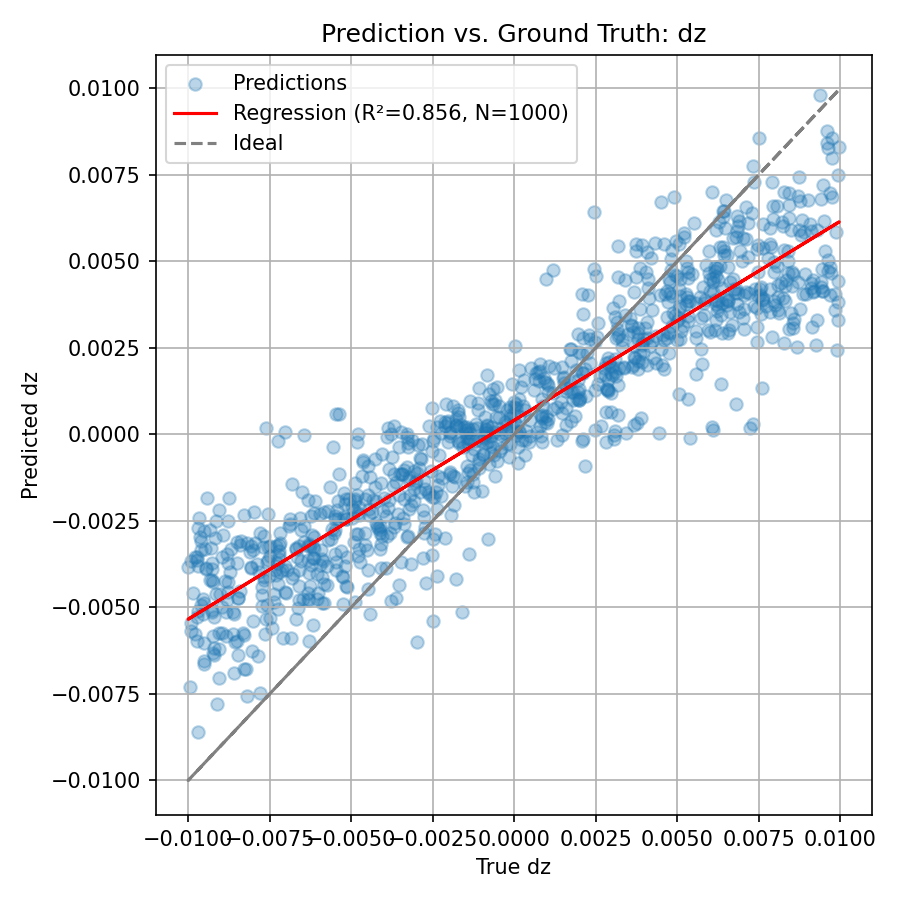
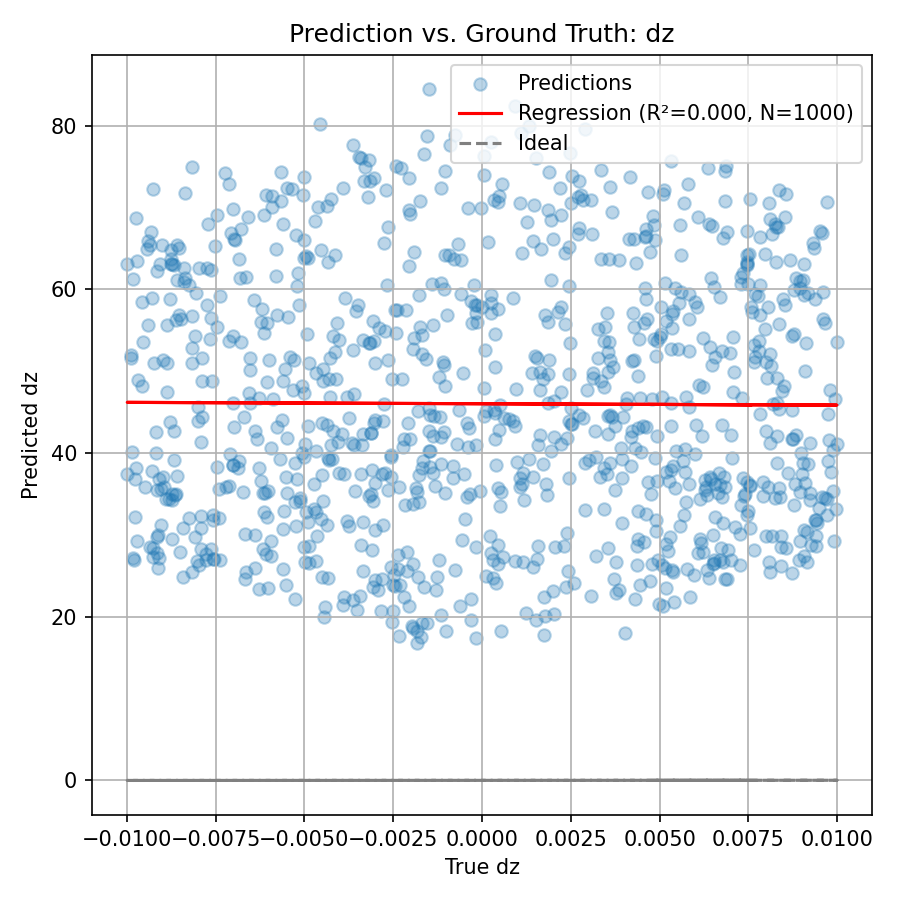
First time hypothesis tested!
Did not find the relation between superimposed rotation speed and heading direction bias i was hoping for. No such dependence.

diff --git a/src/train/test_flow_xt_net.py b/src/train/test_flow_xt_net.py
@@ -6,84 +6,268 @@ from sklearn.linear_model import LinearRegression
 from sklearn.metrics import r2_score
 from models.flow_xt_net import FlowXTNet
 from data.load_flow_xt_data import FlowXtDataset
-from data.load_flow_xt_data import extract_ranges_from_foldername, subset_dataset
+from data.load_flow_xt_data import subset_dataset
 from data.utils import select_subfolder
 import sys
 
-# --- Data selection
-data_root = "F:/dw93net/data"
-data_folder = select_subfolder(data_root,header_str="\nSelect a data folder")
-if data_folder is None:
-    print("No data folder selected. Exiting.")
-    sys.exit()
-data_folder_name = os.path.basename(data_folder)
+def run_flow_xt_model_on_test_data(
+    data_folder: str,
+    checkpoint_path: str,
+    subset_size: int = 1000
+) -> dict:
+    """
+    Loads a trained FlowXTNet model and applies it to test data.
 
-# --- Model selection
-checkpoints_root = "F:/dw93net/checkpoints"
-checkpoints_folder = select_subfolder(checkpoints_root,header_str="\nSelect a checkpoints folder")
-if checkpoints_folder is None:
-    print("No checpoints folder selected. Exiting.")
-    sys.exit()
-checkpoint_path = os.path.join(checkpoints_root, checkpoints_folder, "_best.pt")
+    Args:
+        data_folder: Path to the root of the data folder.
+        checkpoint_path: Path to the model checkpoint (.pt file).
+        subset_size: Number of random test samples to evaluate.
 
-checkpoint = torch.load(checkpoint_path, map_location="cpu")
-settings = checkpoint.get("settings", {})  # a plain dict
-root_folder = settings.get("root_folder", data_folder)
-batch_size = settings.get("batch_size", 64)
+    Returns:
+        Dictionary with keys:
+            'preds'   → ndarray of predicted values [N x 3]
+            'targets' → ndarray of ground truth values [N x 3]
+    """
 
-# --- Parameter ranges
-ranges = extract_ranges_from_foldername(os.path.basename(root_folder))
-dx_range = ranges['dx']
-dz_range = ranges['dz']
-rot_range = ranges['rot_deg']
+    checkpoint = torch.load(checkpoint_path, map_location="cpu")
+    batch_size = checkpoint.get("settings", {}).get("batch_size", 64)
 
-# --- Device and model
-device = "cuda" if torch.cuda.is_available() else "cpu"
-model = FlowXTNet().to(device)
-model.load_state_dict(checkpoint["model_state_dict"])
-model.eval()
+    device = "cuda" if torch.cuda.is_available() else "cpu"
+    model = FlowXTNet().to(device)
+    model.load_state_dict(checkpoint["model_state_dict"])
+    model.eval()
 
-# --- Load test data
-test_folder = os.path.join(root_folder, "test")
-test_dataset = FlowXtDataset(folder=test_folder)
-test_dataset = subset_dataset(test_dataset, {"n": 1000, "method": "random"})
-test_loader = torch.utils.data.DataLoader(test_dataset, batch_size=batch_size, shuffle=False)
+    test_folder = os.path.join(data_folder, "test")
+    test_dataset = FlowXtDataset(folder=test_folder)
+    test_dataset = subset_dataset(test_dataset, {"n": subset_size, "method": "random"})
+    test_loader = torch.utils.data.DataLoader(test_dataset, batch_size=batch_size, shuffle=False)
 
-# --- Gather predictions
-all_targets = []
-all_preds = []
+    all_preds = []
+    all_targets = []
 
-with torch.no_grad():
-    for x, y in test_loader:
-        x = x.to(device)
-        pred = model(x).cpu().numpy()
-        all_preds.append(pred)
-        all_targets.append(y.numpy())
+    with torch.no_grad():
+        for x, y in test_loader:
+            x = x.to(device)
+            pred = model(x).cpu().numpy()
+            all_preds.append(pred)
+            all_targets.append(y.numpy())
 
-all_preds = np.vstack(all_preds)
-all_targets = np.vstack(all_targets)
+    return {
+        'preds': np.vstack(all_preds),
+        'targets': np.vstack(all_targets)
+    }
 
-# --- Plotting
-labels = ['dx', 'dz', 'rot_deg']
-for i, label in enumerate(labels):
-    true_vals = all_targets[:, i].reshape(-1, 1)
-    pred_vals = all_preds[:, i].reshape(-1, 1)
-    N = true_vals.shape[0]
 
-    reg = LinearRegression().fit(true_vals, pred_vals)
-    fit_vals = reg.predict(true_vals)
-    r2 = r2_score(pred_vals, fit_vals)
+def regress_labels_and_estimates(results: dict):
+    """
+    Perform linear regression and generate scatter plots comparing
+    predicted and ground truth values for each label.
 
-    plt.figure(figsize=(6, 6))
-    plt.scatter(true_vals, pred_vals, alpha=0.3, label='Predictions')
-    plt.plot(true_vals, fit_vals, color='red',
-             label=f'Regression (R²={r2:.3f}, N={N})')
-    plt.plot(true_vals, true_vals, color='gray', linestyle='--', label='Ideal')
-    plt.xlabel(f"True {label}")
-    plt.ylabel(f"Predicted {label}")
-    plt.title(f"Prediction vs. Ground Truth: {label}")
-    plt.legend()
+    Args:
+        results: Dictionary with keys 'preds' and 'targets',
+                 each a numpy array of shape [N x 3] corresponding to dx, dz, and rot_deg.
+    """
+    labels = ['dx', 'dz', 'rot_deg']
+    preds = results['preds']
+    targets = results['targets']
+
+    for i, label in enumerate(labels):
+        true_vals = targets[:, i].reshape(-1, 1)
+        pred_vals = preds[:, i].reshape(-1, 1)
+        N = true_vals.shape[0]
+
+        reg = LinearRegression().fit(true_vals, pred_vals)
+        fit_vals = reg.predict(true_vals)
+        r2 = r2_score(pred_vals, fit_vals)
+
+        plt.figure(figsize=(6, 6))
+        plt.scatter(true_vals, pred_vals, alpha=0.3, label='Predictions')
+        plt.plot(true_vals, fit_vals, color='red',
+                 label=f'Regression (R²={r2:.3f}, N={N})')
+        plt.plot(true_vals, true_vals, color='gray', linestyle='--', label='Ideal')
+        plt.xlabel(f"True {label}")
+        plt.ylabel(f"Predicted {label}")
+        plt.title(f"Prediction vs. Ground Truth: {label}")
+        plt.legend()
+        plt.grid(True)
+        plt.tight_layout()
+        plt.savefig(f"scatter_{label}.png", dpi=150)
+        plt.show()
+
+
+def analyze_heading_error_vs_heading(results: dict):
+    """
+    Analyzes heading direction estimation error vs. true heading direction.
+
+    Args:
+        results: Dictionary with keys 'preds' and 'targets',
+                 each an [N x 3] numpy array for dx, dz, rot_deg.
+    """
+    dx_true = results['targets'][:, 0]
+    dz_true = results['targets'][:, 1]
+    dx_pred = results['preds'][:, 0]
+    dz_pred = results['preds'][:, 1]
+
+    # Compute true and predicted heading angles in degrees
+    heading_true = np.degrees(np.arctan2(dz_true, dx_true))  # range [-180, 180]
+
+    # Normalize direction vectors
+    true_vecs = np.stack([dx_true, dz_true], axis=1)
+    pred_vecs = np.stack([dx_pred, dz_pred], axis=1)
+
+    true_norm = true_vecs / np.linalg.norm(true_vecs, axis=1, keepdims=True)
+    pred_norm = pred_vecs / np.linalg.norm(pred_vecs, axis=1, keepdims=True)
+
+    # Compute signed angular error using dot and 2D cross product
+    dot = np.einsum('ij,ij->i', true_norm, pred_norm)
+    dot = np.clip(dot, -1.0, 1.0)  # Ensure numerical safety
+    angle_error = np.degrees(np.arccos(dot))
+
+    # Compute sign using 2D cross product
+    cross = true_norm[:, 0] * pred_norm[:, 1] - true_norm[:, 1] * pred_norm[:, 0]
+    signed_error = np.where(cross >= 0, angle_error, -angle_error)
+
+    # Plot error vs. true heading
+    plt.figure(figsize=(8, 5))
+    plt.scatter(heading_true, signed_error, alpha=0.3)
+    plt.axhline(0, color='gray', linestyle='--')
+    plt.xlabel("True Heading (deg)\n0 = forward, 90 = left, 180 = backward, 270/-90 = right")
+    plt.ylabel("Heading Estimate Error (deg)\n(+ = too CCW, – = too CW)")
+    plt.title("Signed Heading Error vs. True Heading")
     plt.grid(True)
     plt.tight_layout()
-    plt.savefig(f"scatter_{label}.png", dpi=150)
+    plt.savefig("heading_error_vs_heading.png", dpi=150)
     plt.show()
+
+
+def analyze_speed_error_vs_speed(results: dict):
+    """
+    Analyzes translation speed estimation error vs. true translation speed.
+
+    Args:
+        results: Dictionary with keys 'preds' and 'targets',
+                 each an [N x 3] numpy array for dx, dz, rot_deg.
+    """
+    dx_true = results['targets'][:, 0]
+    dz_true = results['targets'][:, 1]
+    dx_pred = results['preds'][:, 0]
+    dz_pred = results['preds'][:, 1]
+
+    # Compute true and predicted translation speeds
+    speed_true = np.sqrt(dx_true**2 + dz_true**2)
+    speed_pred = np.sqrt(dx_pred**2 + dz_pred**2)
+
+    # Compute signed speed error (predicted - true)
+    speed_error = speed_pred - speed_true
+
+    # Plot error vs. true speed
+    plt.figure(figsize=(8, 5))
+    plt.scatter(speed_true, speed_error, alpha=0.3)
+    plt.axhline(0, color='gray', linestyle='--')
+    plt.xlabel("True Translation Speed (m/s)")
+    plt.ylabel("Speed Estimate Error (m/s)\n(+ = overestimate, – = underestimate)")
+    plt.title("Translation Speed Error vs. True Speed")
+    plt.grid(True)
+    plt.tight_layout()
+    plt.savefig("speed_error_vs_speed.png", dpi=150)
+    plt.show()
+
+
+def analyze_rotdeg_error_vs_rotdeg(results: dict):
+    """
+    Analyzes signed rotation displacement error vs. true rotation displacement.
+
+    Args:
+        results: Dictionary with keys 'preds' and 'targets',
+                 each an [N x 3] numpy array for dx, dz, rot_deg.
+    """
+    rot_true = results['targets'][:, 2]
+    rot_pred = results['preds'][:, 2]
+
+    # Compute signed angular error, wrapped to [-180, 180]
+    rot_error = (rot_pred - rot_true + 180) % 360 - 180
+
+    # Plot error vs. true rotation displacement
+    plt.figure(figsize=(8, 5))
+    plt.scatter(rot_true, rot_error, alpha=0.3)
+    plt.axhline(0, color='gray', linestyle='--')
+    plt.xlabel("True Rotation (deg/frame)")
+    plt.ylabel("Rotation Estimate Error (deg)\n(+ = overestimate, – = underestimate)")
+    plt.title("Rotation Displacement Error vs. True Rotation")
+    plt.grid(True)
+    plt.tight_layout()
+    plt.savefig("rotdeg_error_vs_rotdeg.png", dpi=150)
+    plt.show()
+
+
+def analyze_heading_error_vs_rotdeg(results: dict):
+    """
+    Analyzes heading direction estimation error vs. true rotation (rot_deg).
+
+    Args:
+        results: Dictionary with keys 'preds' and 'targets',
+                 each an [N x 3] numpy array for dx, dz, rot_deg.
+    """
+    dx_true = results['targets'][:, 0]
+    dz_true = results['targets'][:, 1]
+    dx_pred = results['preds'][:, 0]
+    dz_pred = results['preds'][:, 1]
+    rot_true = results['targets'][:, 2]
+
+    # Compute normalized direction vectors
+    true_vecs = np.stack([dx_true, dz_true], axis=1)
+    pred_vecs = np.stack([dx_pred, dz_pred], axis=1)
+
+    true_norm = true_vecs / np.linalg.norm(true_vecs, axis=1, keepdims=True)
+    pred_norm = pred_vecs / np.linalg.norm(pred_vecs, axis=1, keepdims=True)
+
+    # Compute signed heading error using dot and 2D cross product
+    dot = np.einsum('ij,ij->i', true_norm, pred_norm)
+    dot = np.clip(dot, -1.0, 1.0)
+    angle_error = np.degrees(np.arccos(dot))
+
+    # Sign from 2D cross product
+    cross = true_norm[:, 0] * pred_norm[:, 1] - true_norm[:, 1] * pred_norm[:, 0]
+    signed_error = np.where(cross >= 0, angle_error, -angle_error)
+
+    # Plot heading error vs. rotation
+    plt.figure(figsize=(8, 5))
+    plt.scatter(rot_true, signed_error, alpha=0.3)
+    plt.axhline(0, color='gray', linestyle='--')
+    plt.xlabel("True Rotation (deg/frame)\n(+ = CCW rotation, – = CW rotation)")
+    plt.ylabel("Heading Estimate Error (deg)\n(+ = too CCW, – = too CW)")
+    plt.title("Heading Bias vs. Rotation")
+    plt.grid(True)
+    plt.tight_layout()
+    plt.savefig("heading_error_vs_rotdeg.png", dpi=150)
+    plt.show()
+
+
+def main():
+    # --- Data selection
+    data_root = "F:/dw93net/data"
+    data_folder = select_subfolder(data_root, header_str="\nSelect a data folder")
+    if data_folder is None:
+        print("No data folder selected. Exiting.")
+        sys.exit()
+
+    # --- Checkpoint selection
+    checkpoints_root = "F:/dw93net/checkpoints"
+    checkpoints_folder = select_subfolder(checkpoints_root, header_str="\nSelect a checkpoints folder")
+    if checkpoints_folder is None:
+        print("No checkpoints folder selected. Exiting.")
+        sys.exit()
+    checkpoint_path = os.path.join(checkpoints_root, checkpoints_folder, "_best.pt")
+
+    # --- Run model on test data
+    #from evaluate_flow_xt import run_flow_xt_model_on_test_data  # update this import path as needed
+    results = run_flow_xt_model_on_test_data(data_folder, checkpoint_path)
+
+    regress_labels_and_estimates(results)
+    analyze_heading_error_vs_heading(results)
+    analyze_speed_error_vs_speed(results)
+    analyze_rotdeg_error_vs_rotdeg(results)
+    analyze_heading_error_vs_rotdeg(results)
+
+if __name__ == "__main__":
+    main()

diff --git a/src/data/utils.py b/src/data/utils.py
@@ -24,9 +24,7 @@ def select_subfolder(folder: str, header_str: str = "\nChoose a subfolder:", all
             print("N: Create a new folder")
         print("C: Cancel")
 
-        selection = input("Enter a number" +
-                          (", 'N' for new folder" if allow_create_new else "") +
-                          ", or 'C' to cancel: ").strip()
+        selection = input("Enter selection: ").strip()
 
         if selection.lower() == 'c':
             print("Selection canceled.")
@@ -48,5 +46,4 @@ def select_subfolder(folder: str, header_str: str = "\nChoose a subfolder:", all
             else:
                 print("Invalid number. Try again.")
         except ValueError:
-            print("Invalid input. Please enter a number" +
-                  (", 'N'" if allow_create_new else "") + ", or 'C'.")
+            print("Invalid input.")

diff --git a/src/data/generate_flow_xt_data.py b/src/data/generate_flow_xt_data.py
@@ -8,7 +8,7 @@ def generate_flow_xt_dataset(
     n_samples: int = 100_000, # 100_000
     dx_range=(-0.01, 0.01),
     dz_range=(-0.01, 0.01),
-    rot_deg_range=(0.5, 0.5),
+    rot_deg_range=(-0.5, 0.5),
     split=(0.8, 0.1, 0.1),
     seed: int = None,
     stim_wid_px: int = 1028,
